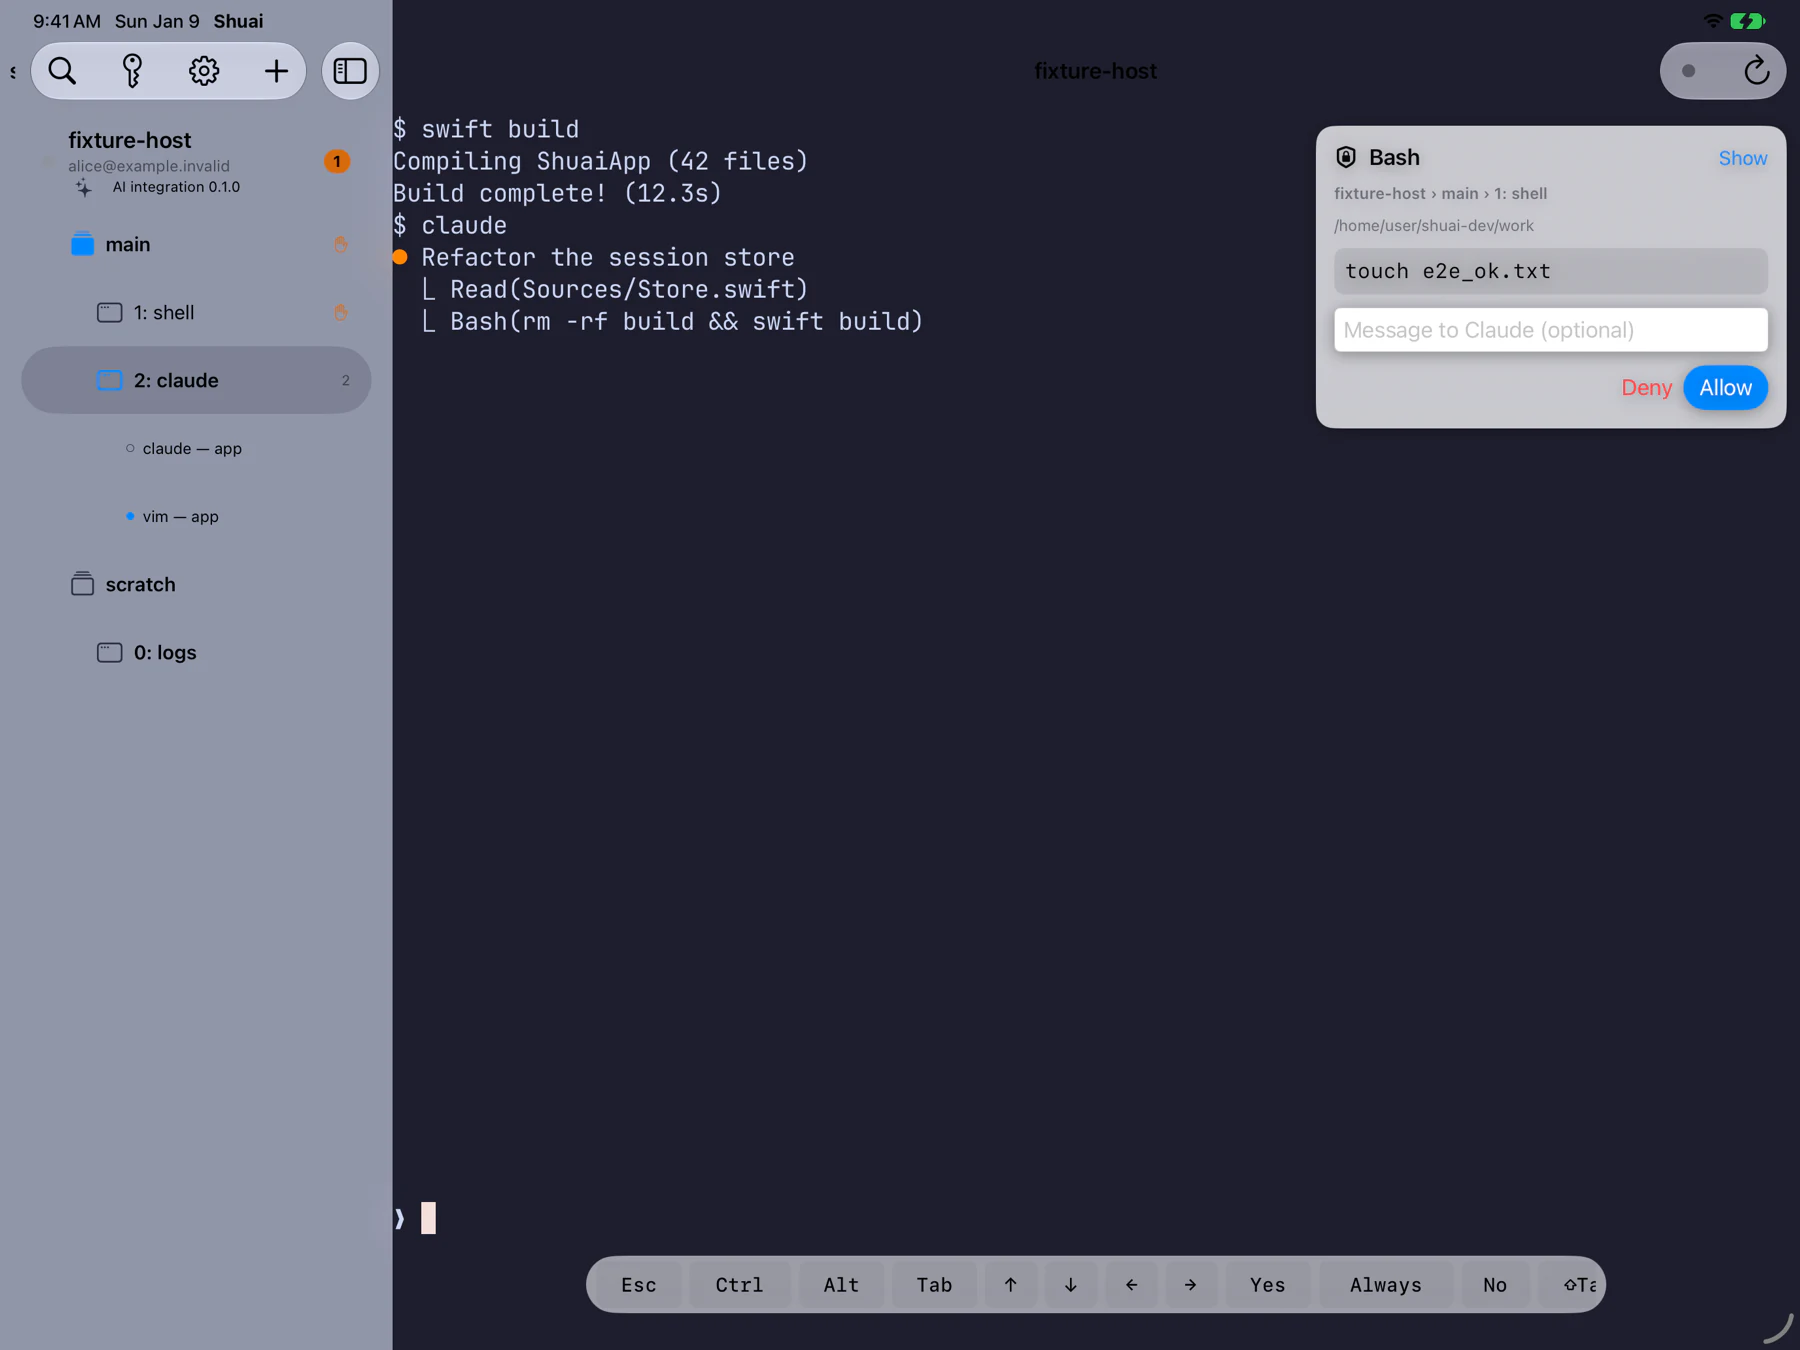
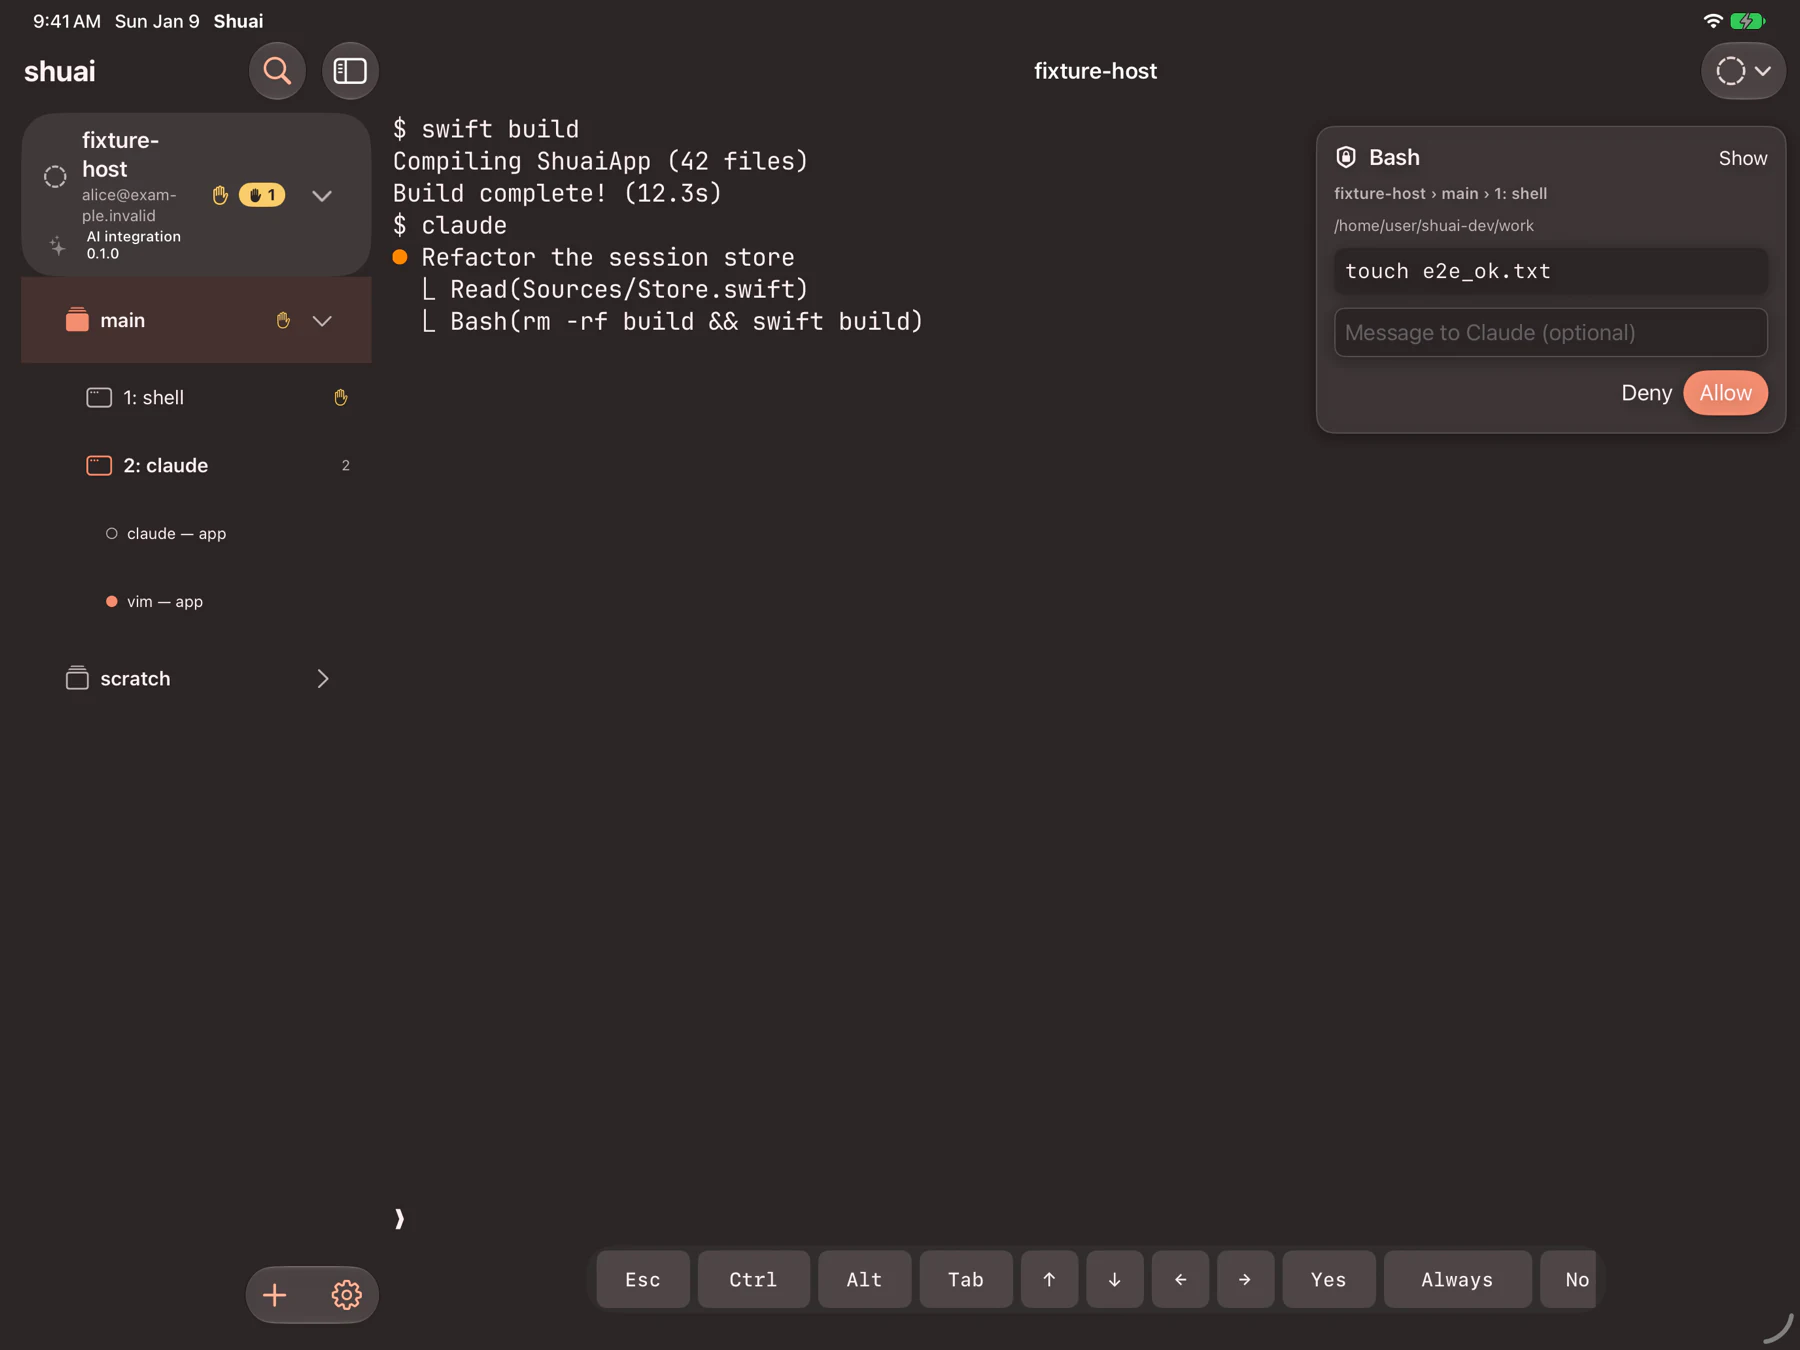
docs: refresh the README screenshot and feature list for the Ristretto theme and Full Screen

diff --git a/README.md b/README.md
@@ -53,7 +53,8 @@ under the MIT license.
 - tmux: automatic `tmux new -A -s <name>`, plain-shell fallback without tmux, a live sidebar tree of
   sessions, windows and panes, context-menu actions, ⌘K quick switcher, hardware shortcuts.
 - Terminal: inline IME, CJK and emoji, mouse, bracketed paste, OSC 52 (with confirmation) and
-  OSC 9/777, pinch and ⌘± zoom, Option as Alt, dark and light themes.
+  OSC 9/777, pinch and ⌘± zoom, Option as Alt, themes (Monokai Pro Ristretto by default, Dark, Light) that also color the whole app,
+  Full Screen mode (⌃⌘F) and window tabs that hide when there is only one session.
 - Keyboard bar plus a Claude strip (Yes = `1`, Always = `2`, No = Esc, ⇧Tab, interrupt); docked or
   floating, switching automatically with a hardware keyboard.
 - One-tap **Enable AI integration** installs `shuai-agent`, the Claude Code plugin and a tmux config

diff --git a/docs/development/testing.md b/docs/development/testing.md
@@ -111,6 +111,10 @@ cwebp -q 88 -m 6 -sharp_yuv shot-1800.png -o docs/assets/integration.webp
 Use `simctl io`: `XCUIScreen` and `XCUIApplication` screenshots of a rotated simulator come out
 sideways. The time is UTC and renders as 9:41 AM in UTC+8; pick the matching value for your zone.
 The on-screen keyboard appears only after the terminal is tapped, so do not tap before capturing.
+A simulator without a connected hardware keyboard shows the software keyboard over the terminal; shut
+the simulator down and boot it again before capturing. A reboot also resets the orientation to
+portrait; rotate it back with `XCUIDevice.shared.orientation = .landscapeLeft` from a throwaway UI
+test (the rotation outlives the test).
 
 ## Flaky tests
 
